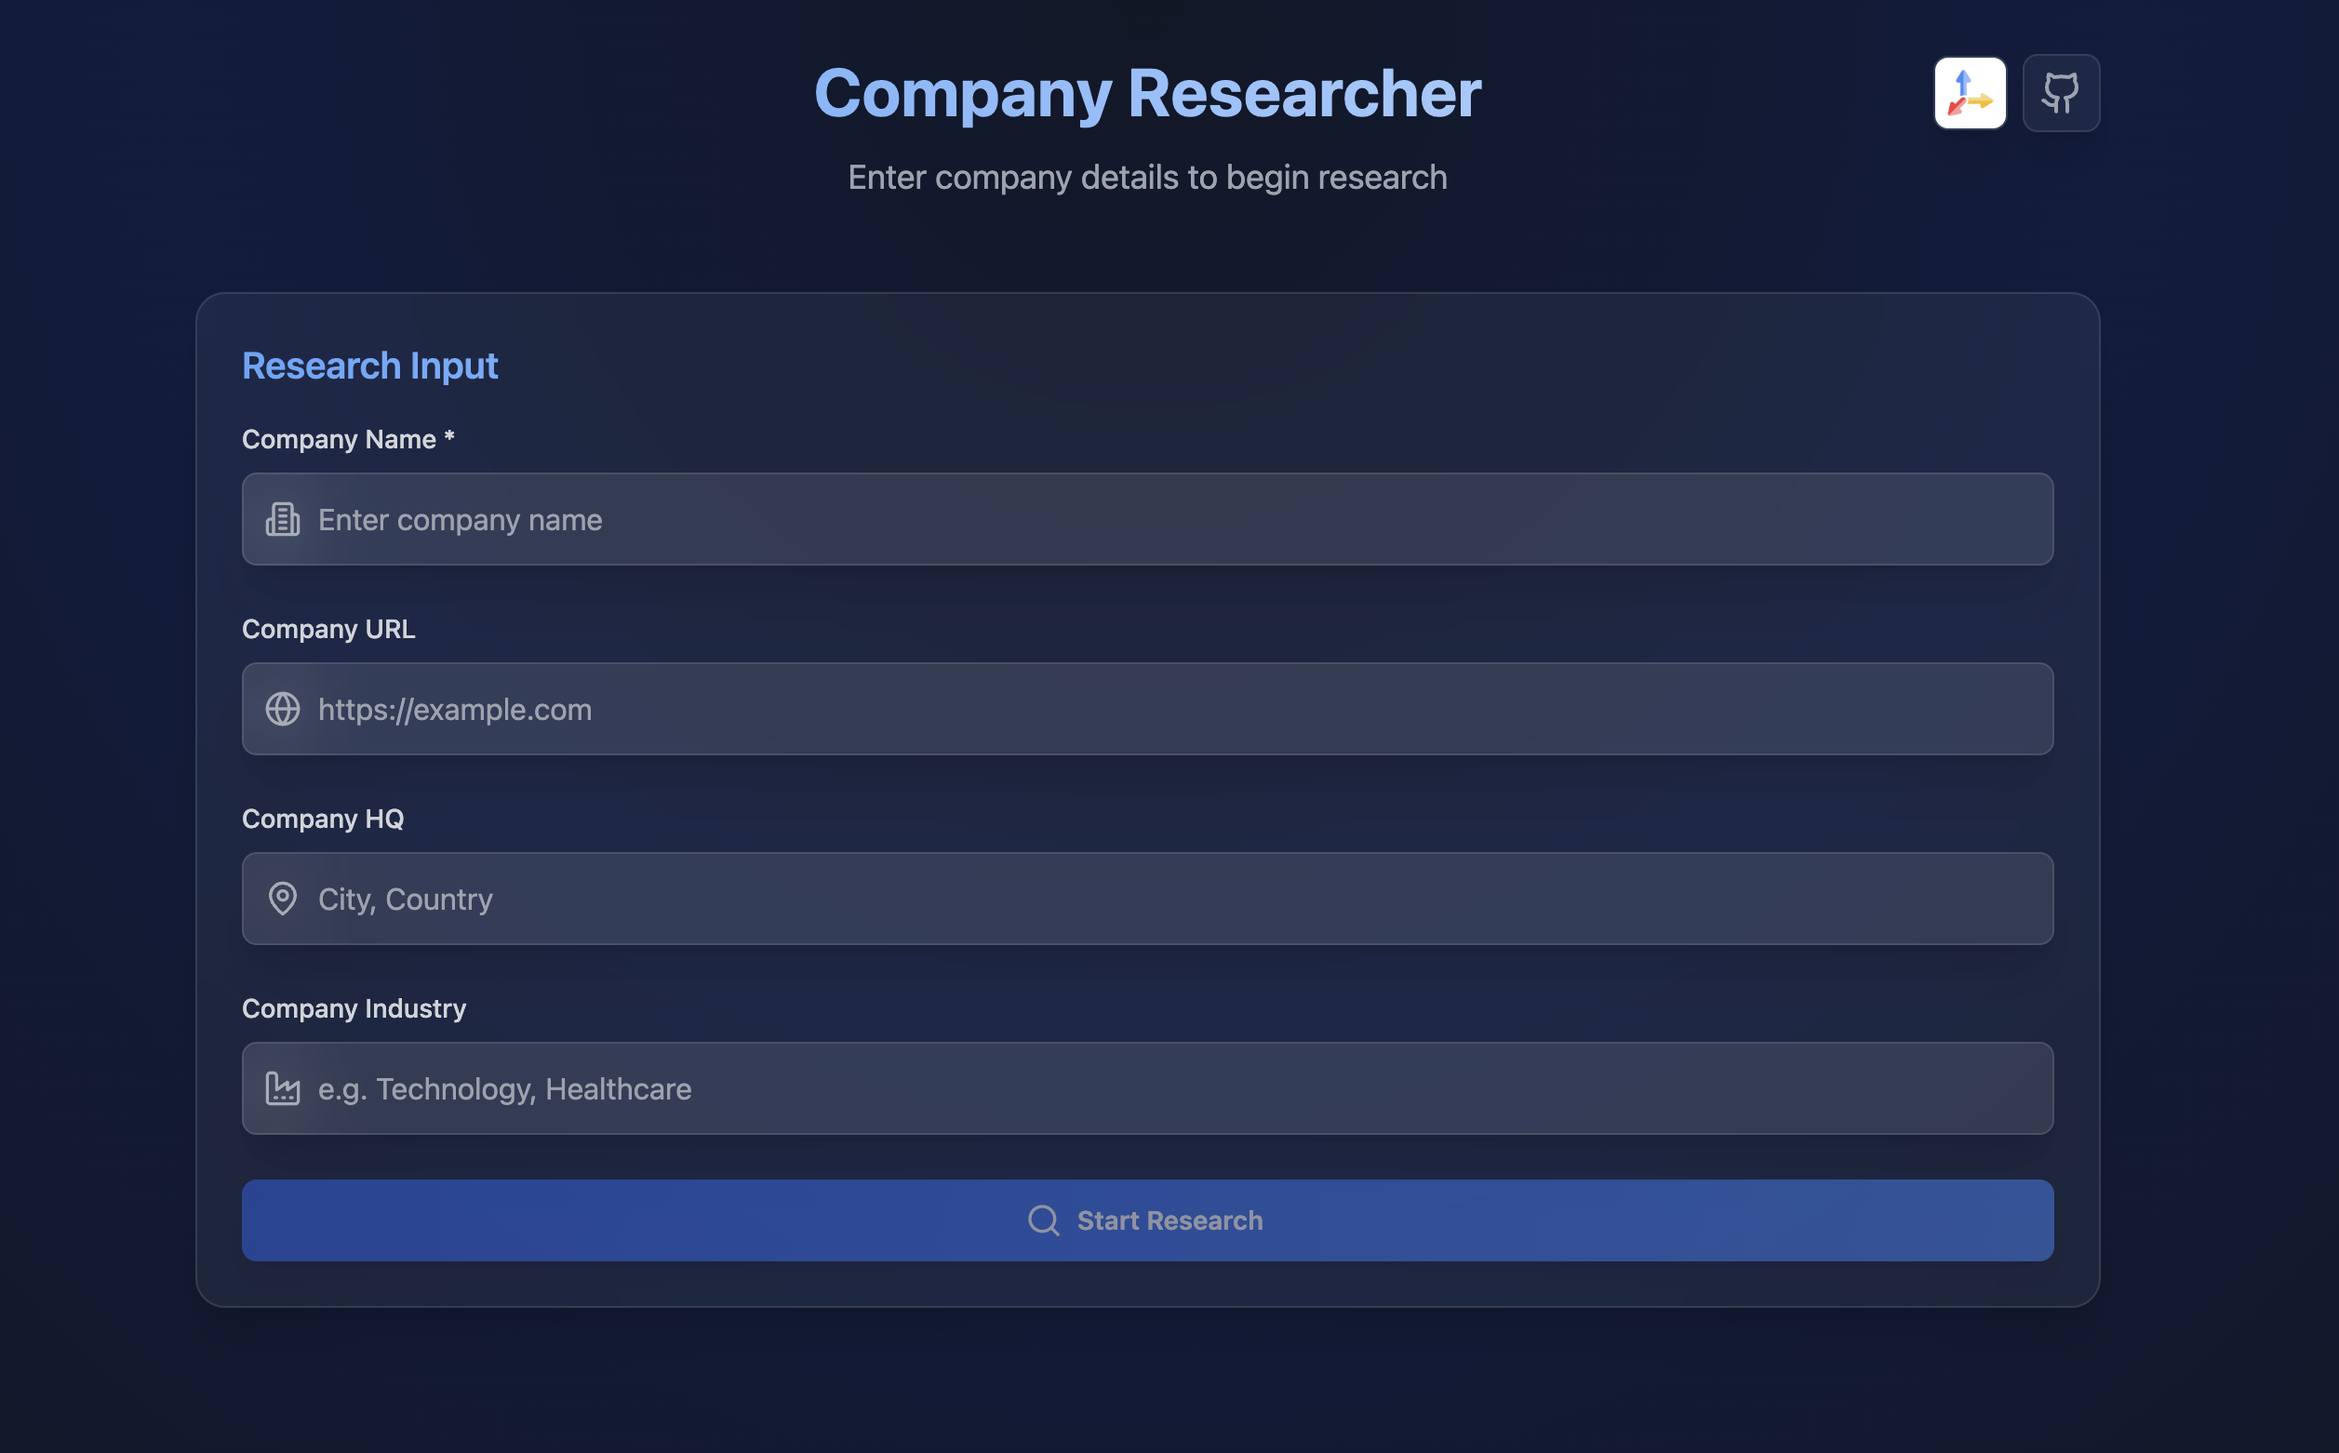
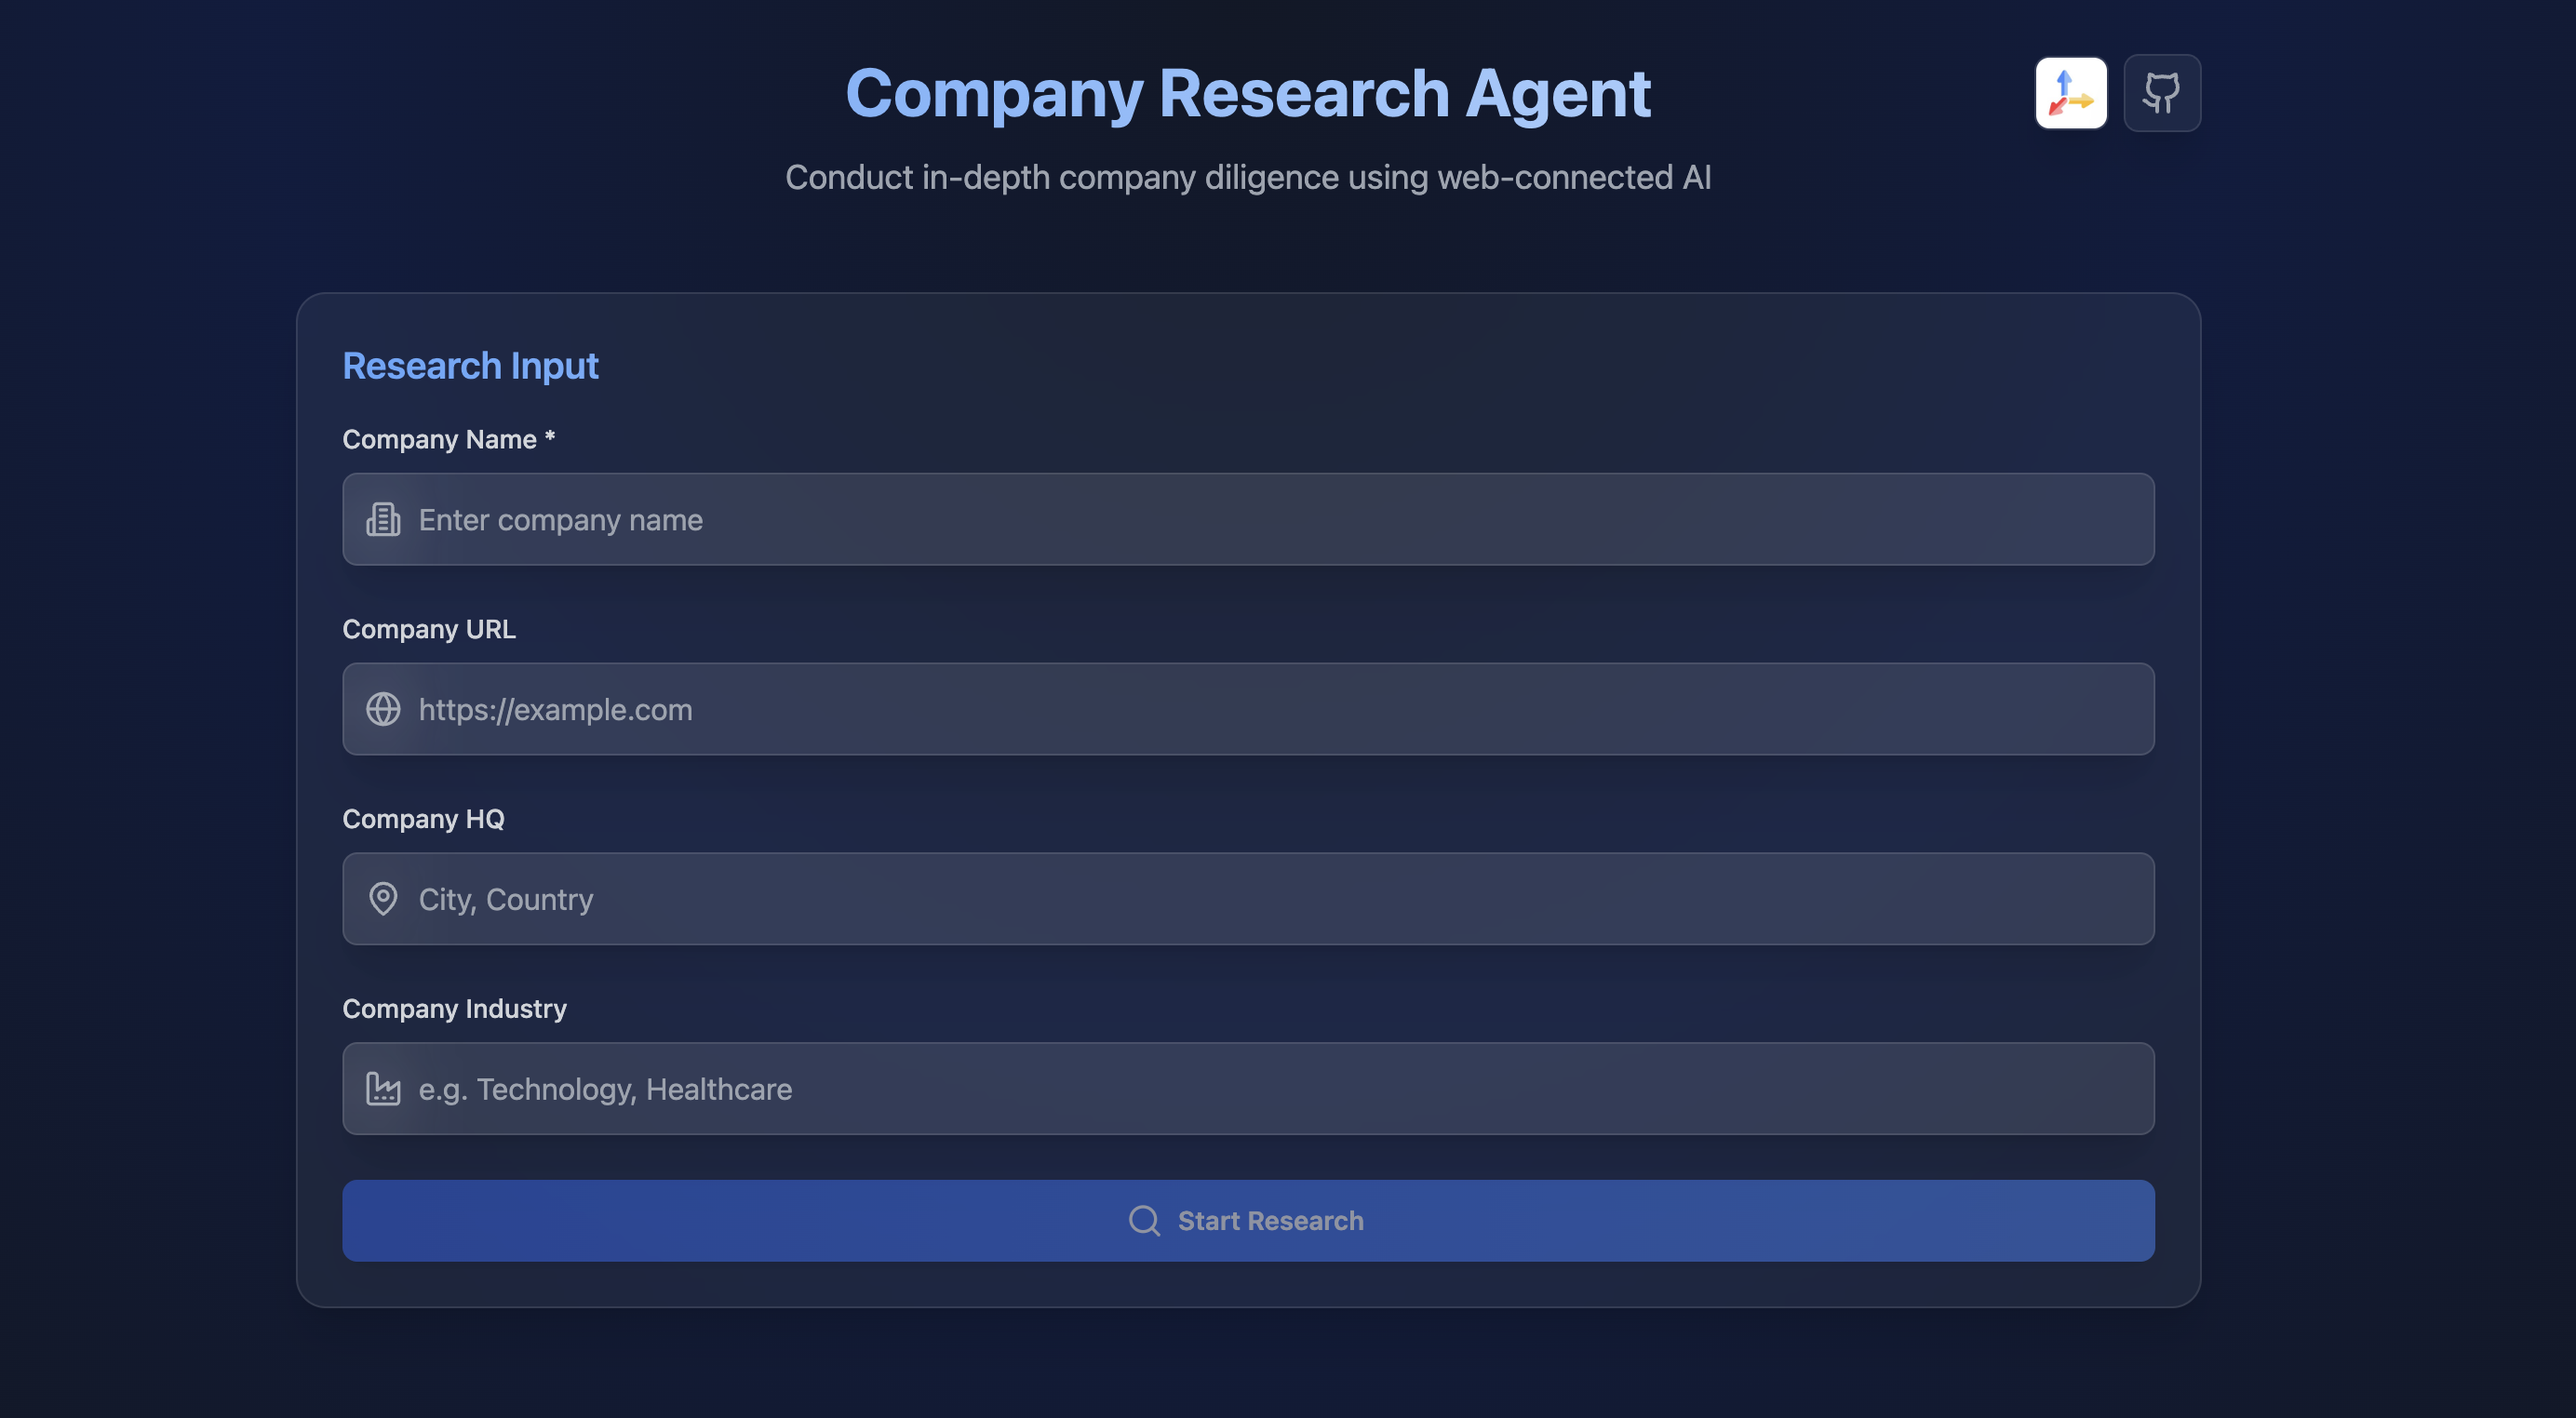
image assets

diff --git a/ui/src/App.tsx b/ui/src/App.tsx
@@ -1043,6 +1043,15 @@ function App() {
               <img src="/tavilylogo.png" alt="Tavily Logo" className="w-full h-full object-cover" />
             </a>
             <a
+              href="https://www.langchain.com/langgraph"
+              target="_blank"
+              rel="noopener noreferrer"
+              className={`text-gray-400 hover:text-white transition-colors ${glassStyle} w-10 h-10 rounded-lg flex items-center justify-center overflow-hidden bg-white`}
+              aria-label="LangGraph Website"
+            >
+              <img src="/langgraphlogo.png" alt="LangGraph Logo" className="w-full h-full object-cover" />
+            </a>
+            <a
               href="https://github.com/pogjester"
               target="_blank"
               rel="noopener noreferrer"
